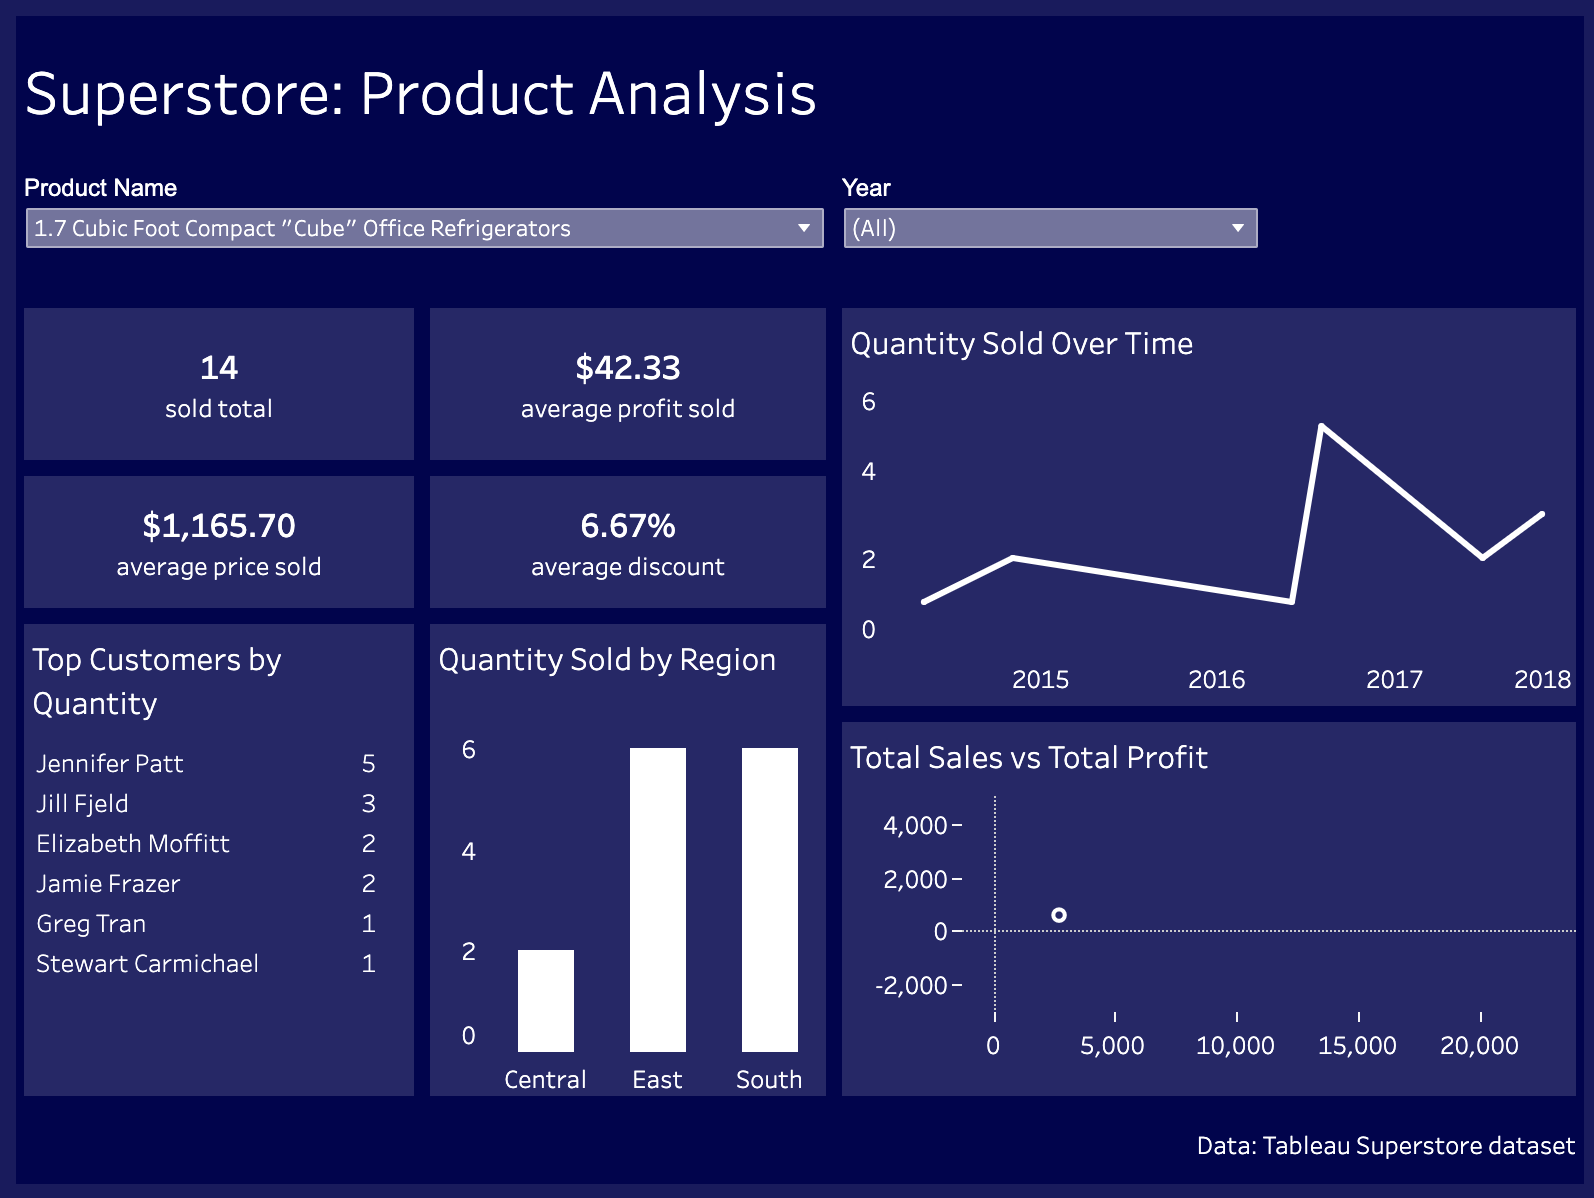
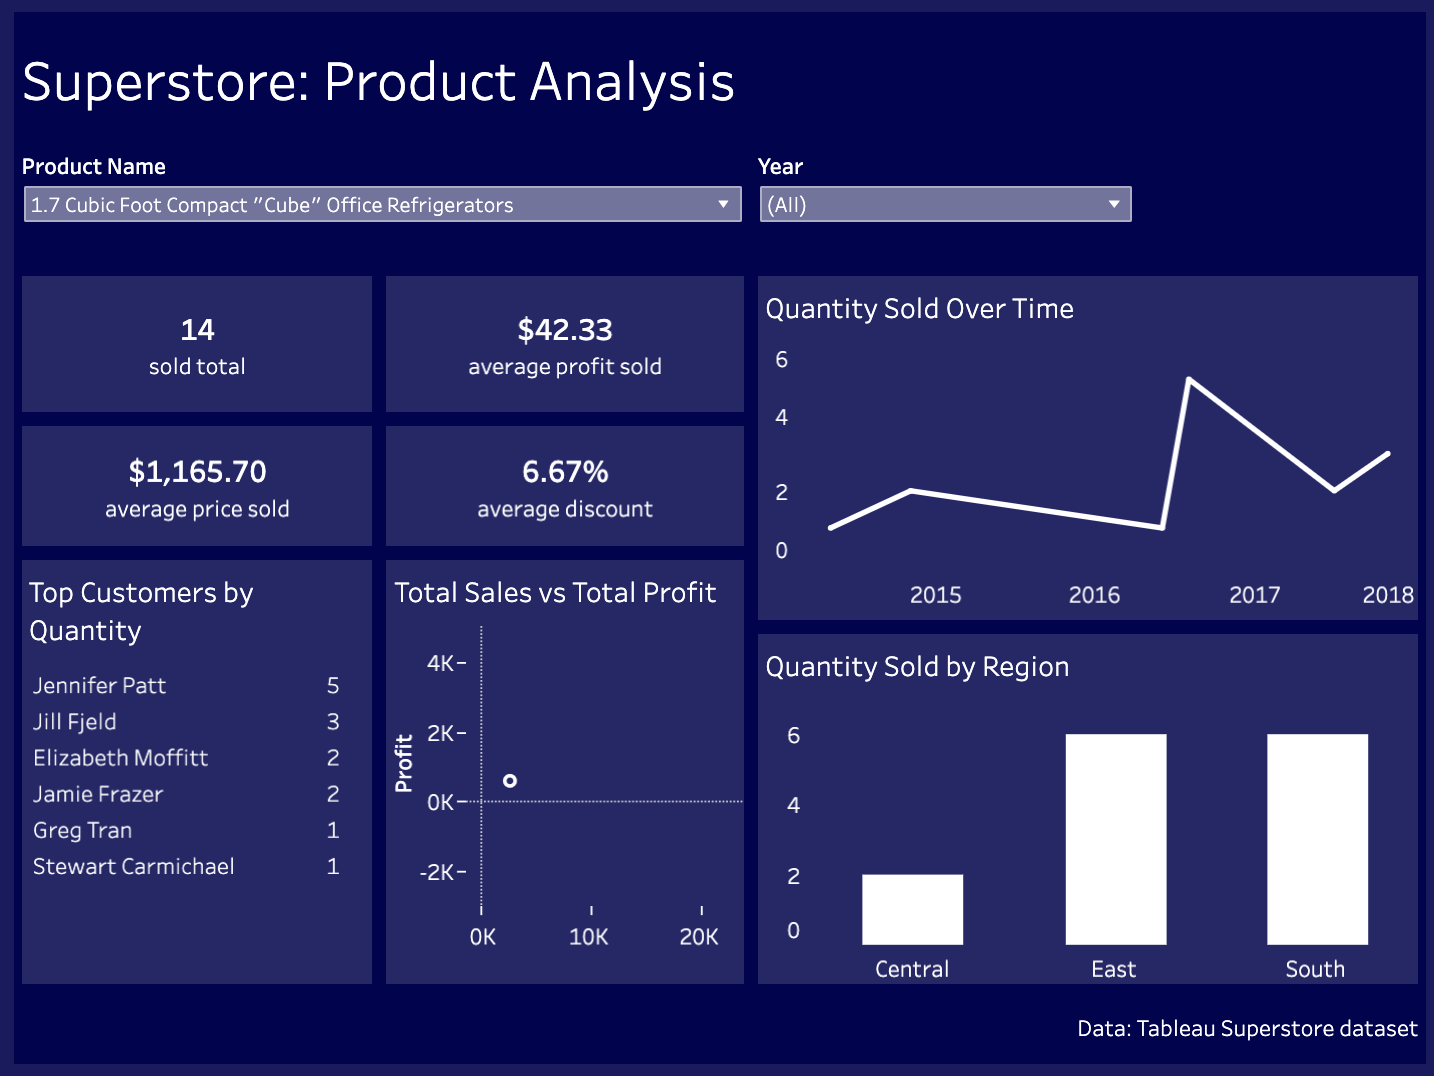
added the last few project write ups, updated a few project images, and added links in descriptions to datasets

diff --git a/public/SuperstoreProfit.html b/public/SuperstoreProfit.html
@@ -16,12 +16,12 @@
     </head>
     <body>
         <a href="index.html"><h1>Madison Smith</h1></a>
-        <div id="project-image">
-            <a href="https://public.tableau.com/profile/madison.smith#!/vizhome/SuperstoreProductAnalysis_15884087453720/dashboard" target="_blank"> 
-                <img class="horizontal" src="../src/imgs/SuperstoreProduct.png" alt="dashboard about product sales using Tableau's superstore dataset" >
-            </a>
-        </div>
-        <div class="horizontal">
+        <div class="vertical">
+            <div id="project-image">
+                <a href="https://public.tableau.com/profile/madison.smith#!/vizhome/SuperstoreProfitAnalysis_15863533109890/dashboard" target="_blank"> 
+                    <img class="vertical" src="../src/imgs/SuperstoreProfit.png" alt="dashboard about summer olympics" >
+                </a>
+            </div>
             <div id="content">
                 <div id="skills" class="row">
                     <div class="skills-pill">TABLEAU</div>
@@ -30,21 +30,20 @@
                 <div id="url">
                     <b>URL</b>
                     <br>
-                    <p>
-                        <a href="https://public.tableau.com/profile/madison.smith#!/vizhome/SuperstoreProductAnalysis_15884087453720/dashboard" target="_blank">Tableau dashboard</a>
+                    <p> 
+                        <a href="https://public.tableau.com/profile/madison.smith#!/vizhome/SuperstoreProfitAnalysis_15863533109890/dashboard" target="_blank">Tableau dashboard</a>
                     </p>
                 </div>
                 <div id="description">
                     <b>Description</b>
                     <br>
-                    <p>I built this as a strategic dashboard to give the viewer the necessary information needed to make 
-                        decisions about Superstore products. A potential audience would be someone who makes decisions 
-                        about Superstore’s product strategy. This dashboard could be used to make decisions about which 
-                        products to discontinue, which types of products to expand in, how to price products, learn who’s 
-                        buying products, learn where to advertise/offer deals, and make rough forecasts of future product sales. 
+                    <p>I built this as a strategic dashboard, to give the viewer information needed to make decisions about 
+                        Superstore’s business strategy. This dashboard could be used to learn about what products are selling, 
+                        where products are selling, and who is buying the products and make strategic decisions from that information. 
+                    </p>
 
+                    <p>
                         This dashboard was created using <a href="https://community.tableau.com/s/question/0D54T00000CWeX8SAL/sample-superstore-sales-excelxls" target="_blank">Tableau’s Superstore sample dataset</a>.
-                        
                     </p>
                 </div>
             </div>

diff --git a/public/OlympicMedals.html b/public/OlympicMedals.html
@@ -37,15 +37,16 @@
                 <div id="description">
                     <b>Description</b>
                     <br>
-                    <p>This was I project I did one time and this is why I did it and this is what I used to build the project
-                        and so on and so on.
+                    <p>When I began to explore this data, I noticed that the number of medals awarded during the summer Olympics Games had 
+                        increased significantly during the last one hundred years. I created this infographic to explore where these medals 
+                        were going and make some educated guesses about why the number of medals awarded had increased. I created this to 
+                        be more of an informatic with static data than a dashboard. I used a lot of line graphs to show the trends over 
+                        time and highlighted important data with the gold color. I found that a lot of the increase in medals was likely 
+                        due to increasing diversity in the games - increases in the number of events, the number of women in the games and 
+                        the number of countries winning medals. 
                     </p>
-                </div>
-                <div id="what-learned">
-                    <b>What I learned</b>
-                    <br>
-                    <p>I learned a lot by doing this project and this is what I learned and this is what I struggled with and 
-                        this is what suprised me and now I'm better at this.
+                    <p>
+                    The data used in this dashboard is from <a href="https://public.tableau.com/en-us/s/resources" target="_blank">Tableau’s sample datasets</a>.
                     </p>
                 </div>
             </div>

diff --git a/public/RainSeattle.html b/public/RainSeattle.html
@@ -37,16 +37,15 @@
                 <div id="description">
                     <b>Description</b>
                     <br>
-                    <p>This was I project I did one time and this is why I did it and this is what I used to build the project
-                        and so on and so on.
+                    <p>This was designed to be more of an infographic than a dashboard. I created this dashboard in reaction to 
+                        a misleading claim I read about that argued that Seattle’s reputation for rainy weather is a misnomer 
+                        because other cities get more inches of rain than Seattle. I thought it was important to illustrate that 
+                        when comparing rain between cities, it is prudent to consider a couple metrics. While the number of inches 
+                        is a valuable metric, the number of days is also important to consider. One hour of intense heavy rain may 
+                        get more inches of rain than a day of light drizzle, but I would not consider a city that gets an hour of 
+                        intense rain to be less rainy than a city that gets light rain all day.
                     </p>
-                </div>
-                <div id="what-learned">
-                    <b>What I learned</b>
-                    <br>
-                    <p>I learned a lot by doing this project and this is what I learned and this is what I struggled with and 
-                        this is what suprised me and now I'm better at this.
-                    </p>
+                    <p>The data used in this dashboard was collected from <a href="https://data.nodc.noaa.gov/cgi-bin/iso?id=gov.noaa.ncdc:C00313" target="_blank">NOAA</a>.</p>
                 </div>
             </div>
         </div>

diff --git a/public/FremontBridge.html b/public/FremontBridge.html
@@ -44,6 +44,7 @@
                         first began to spike in Seattle. The pandemic also changed the patterns of bikes across the bridge, with a slight increase 
                         in bikes during the middle of the day and weekends and fewer bikes during rush hours and weekdays. 
                     </p>
+                    <p>The data used in this dashboard is from the <a href="https://data.seattle.gov/Transportation/Fremont-Bridge-Bicycle-Counter/65db-xm6k" target="_blank">City of Seattle</a></p>
                 </div>
             </div>
         </div>

diff --git a/src/css/index.css b/src/css/index.css
@@ -104,13 +104,7 @@ footer {
 #arrow-container {
     position: absolute;
     left: 50%;
-    bottom: 15px; 
-    animation-name: down-arrow-movement;
-    animation-duration: 2s;
-    animation-iteration-count: infinite;
-    animation-direction: alternate;
-    animation-timing-function: ease;
-    animation-delay: 2s; 
+    bottom: 15px;  
 }
 
 #down-arrow {
@@ -258,10 +252,6 @@ footer {
 }
 
 /* animations */
-@keyframes down-arrow-movement {
-    from {bottom: 15px}
-    to {bottom: 10px}
-}
 
 html {
     scroll-behavior: smooth;

diff --git a/public/WildlifeStrikes.html b/public/WildlifeStrikes.html
@@ -46,7 +46,7 @@
                         A potential audience for this dashboard is nervous flyers as it gives a good 
                         visual of the true risk of wildlife to their flights.</p>
 
-                    <p>The data used in this dashboard is from a Tableau sample dataset. </p>
+                    <p>The data used in this dashboard is from <a href="https://public.tableau.com/en-us/s/resources" target="_blank">Tableau’s sample datasets</a>. </p>
                 </div>
             </div>
         </div>

diff --git a/public/NYCAirbnb.html b/public/NYCAirbnb.html
@@ -45,6 +45,7 @@
                         dashboard building. I used the dark black background and the lighter purple colors to draw attention to the 
                         map and metrics. 
                     </p>
+                    <p>The data used in this dashboard is from <a href="https://public.tableau.com/en-us/s/resources" target="_blank">Tableau’s sample datasets</a>.</p>
                 </div>
             </div>
         </div>

diff --git a/src/css/project.css b/src/css/project.css
@@ -52,6 +52,7 @@ a:hover {
     display: block; 
     margin-left: auto;
     margin-right: auto;
+    margin-bottom: 20px;
 }
 
 .vertical #project-image {
